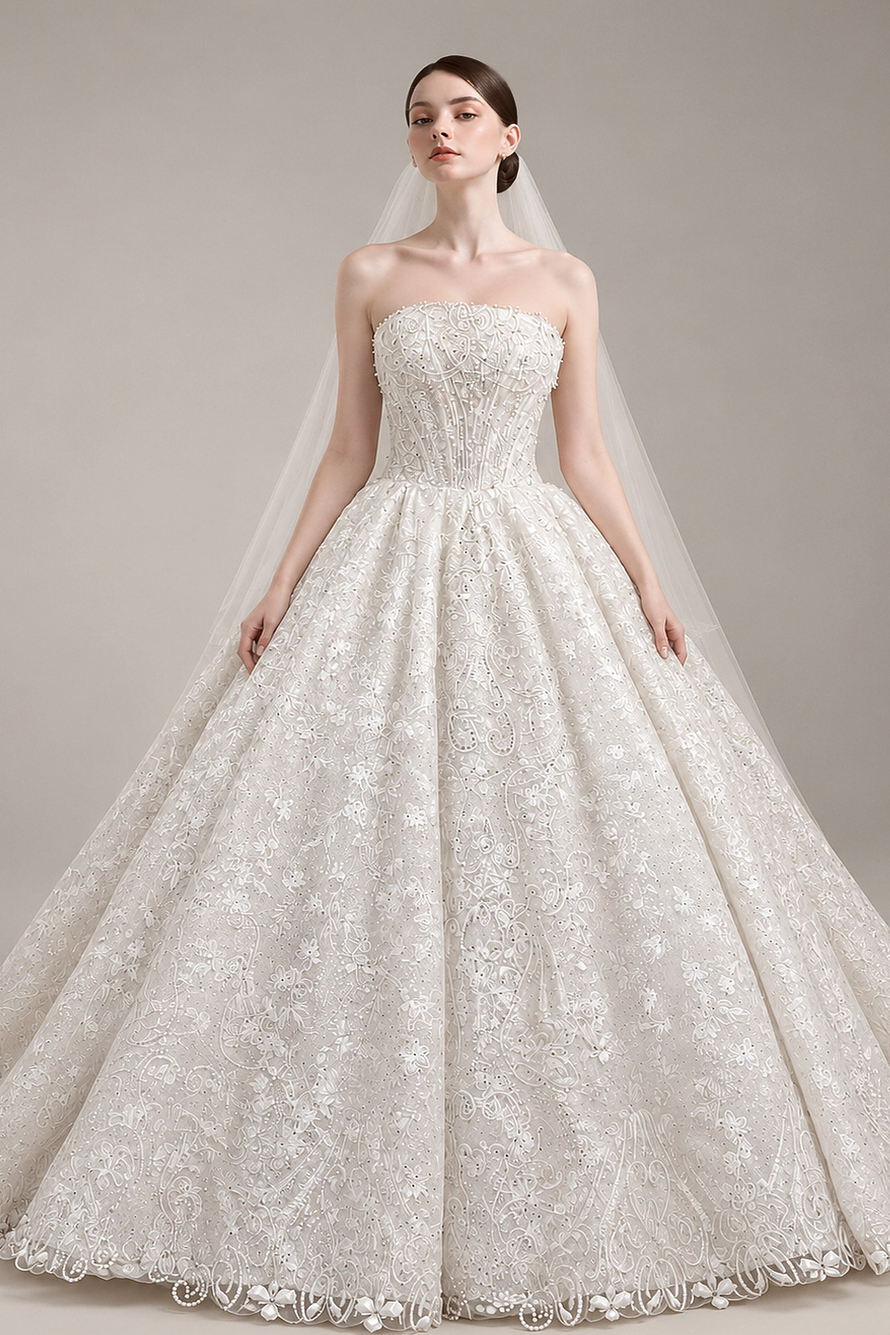
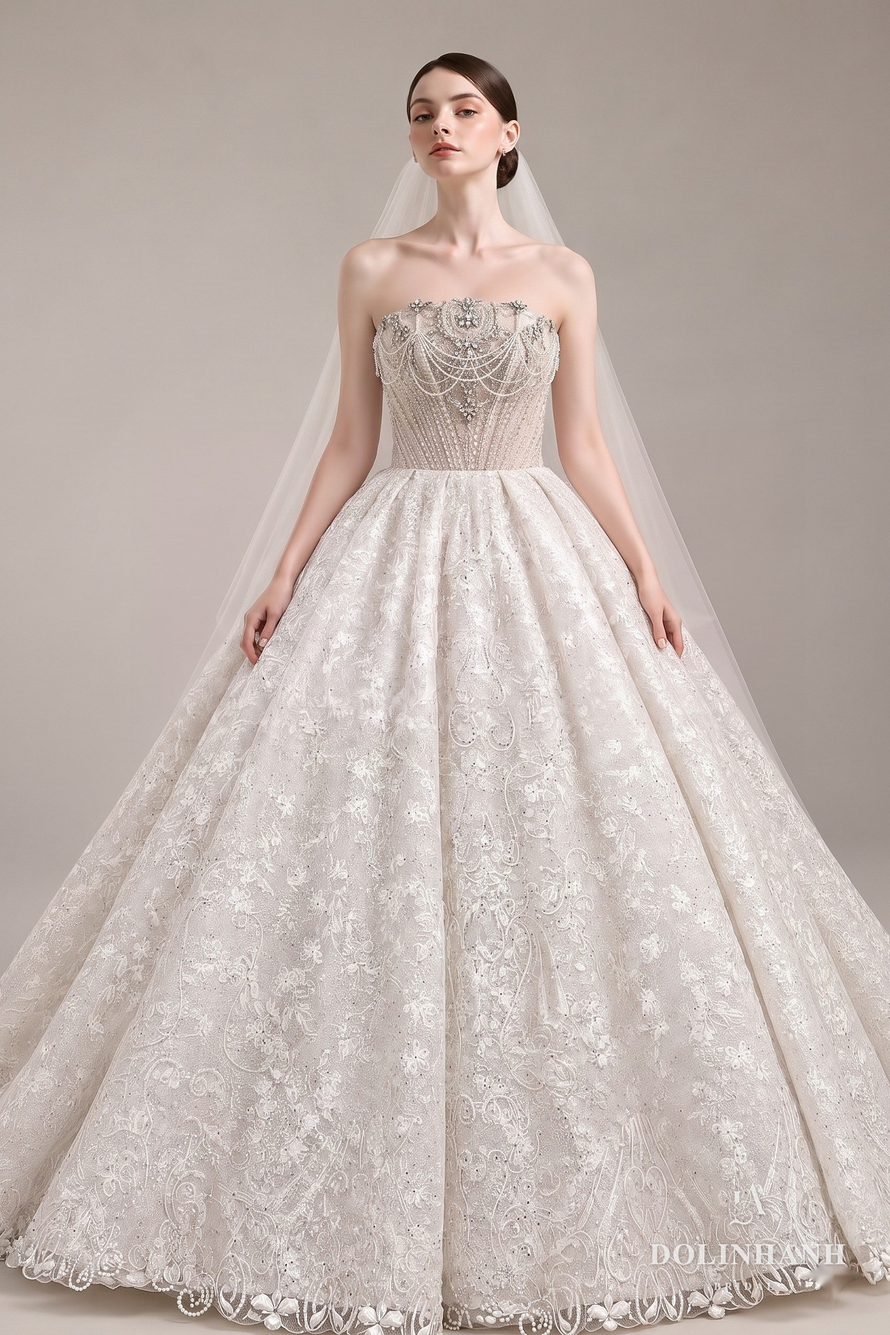
V171: sua anh MS 206: nguc theo vay that, eo ngang

Changed region(s): [[0.0, 0.0312, 1.0, 1.0]]

diff --git a/bo-suu-tap.html b/bo-suu-tap.html
@@ -1803,7 +1803,7 @@ src="https://www.facebook.com/tr?id=1358640082651240&ev=PageView&noscript=1"
         </figure>
         <figure data-dang="ballgown" data-mood="editorial" data-coso="hcm">
           <div class="sl-khung">
-            <div class="sl" data-img="anh/vay/ms206/01.jpg"></div>
+            <div class="sl" data-img="anh/vay/ms206/01.jpg?v=0511"></div>
           </div>
           <figcaption><span class="kind" data-en="Dolinhanh Bridal" data-zh="Dolinhanh Bridal">Dolinhanh Bridal</span><span class="nm">MS 206</span><span class="de" data-en="Metallic lace, wide skirt" data-zh="金属光泽蕾丝，宽大裙摆">Ren ánh kim, tùng rộng</span><span class="gia">US$1,880</span></figcaption>
         </figure>
